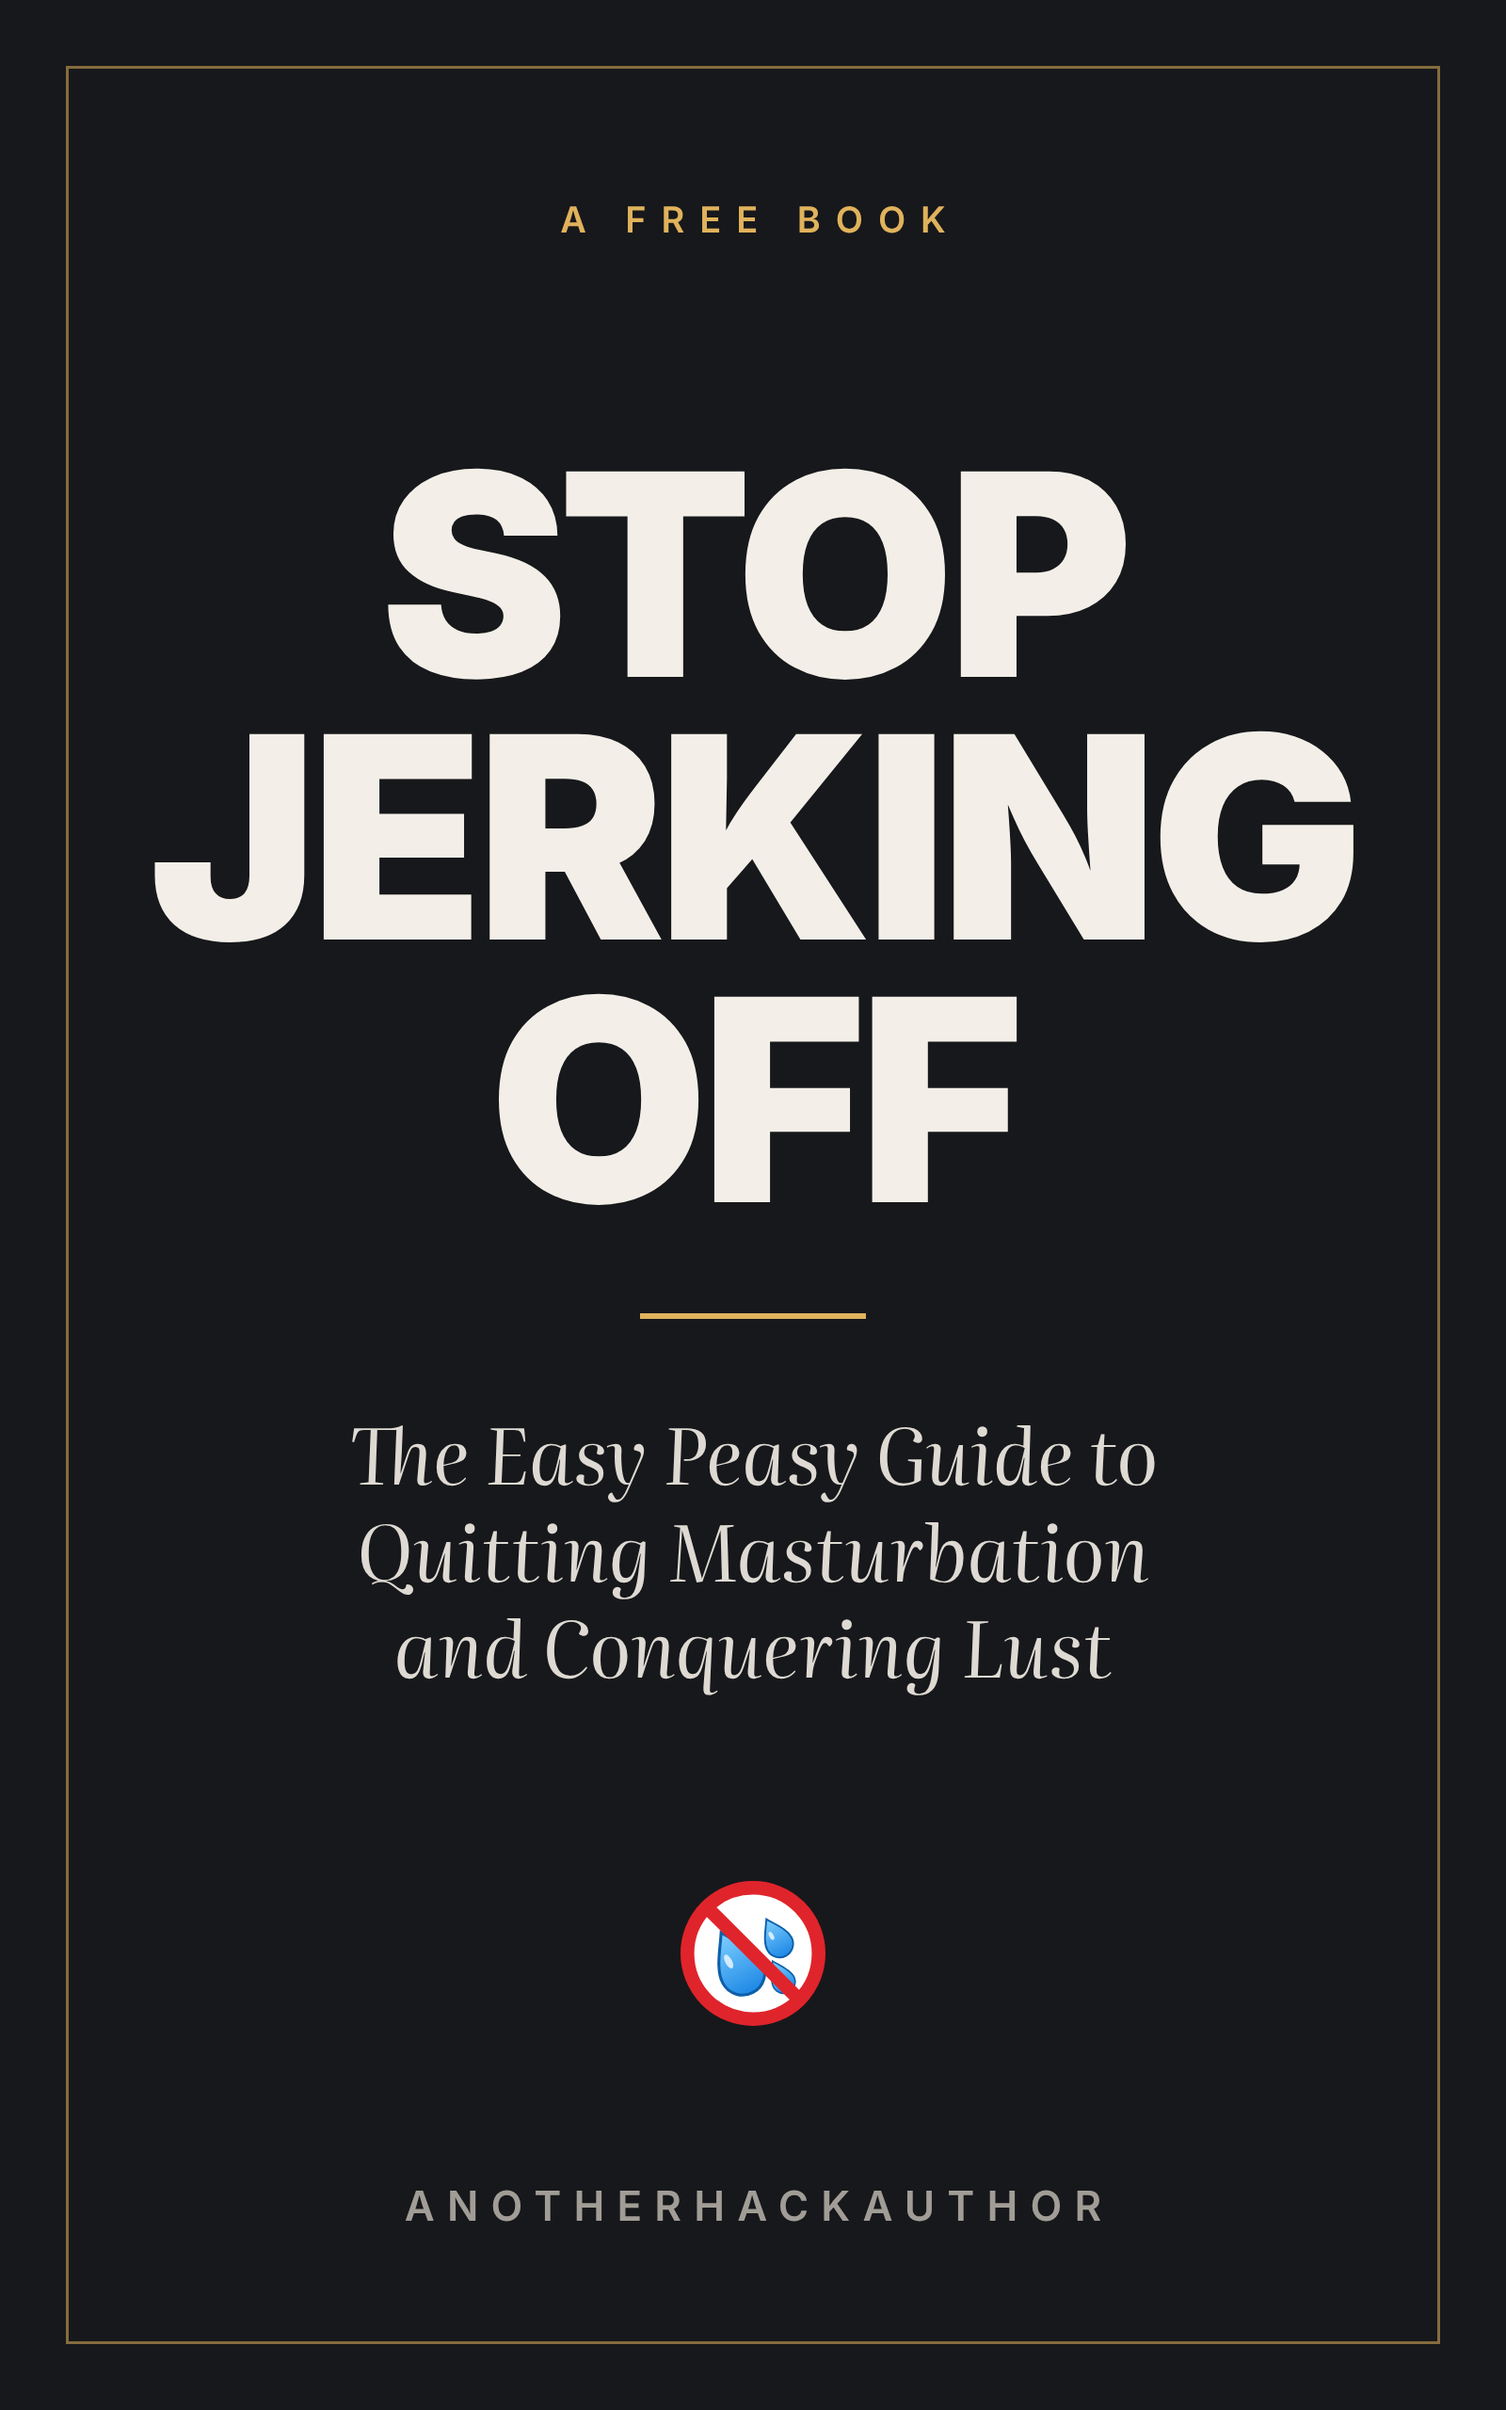
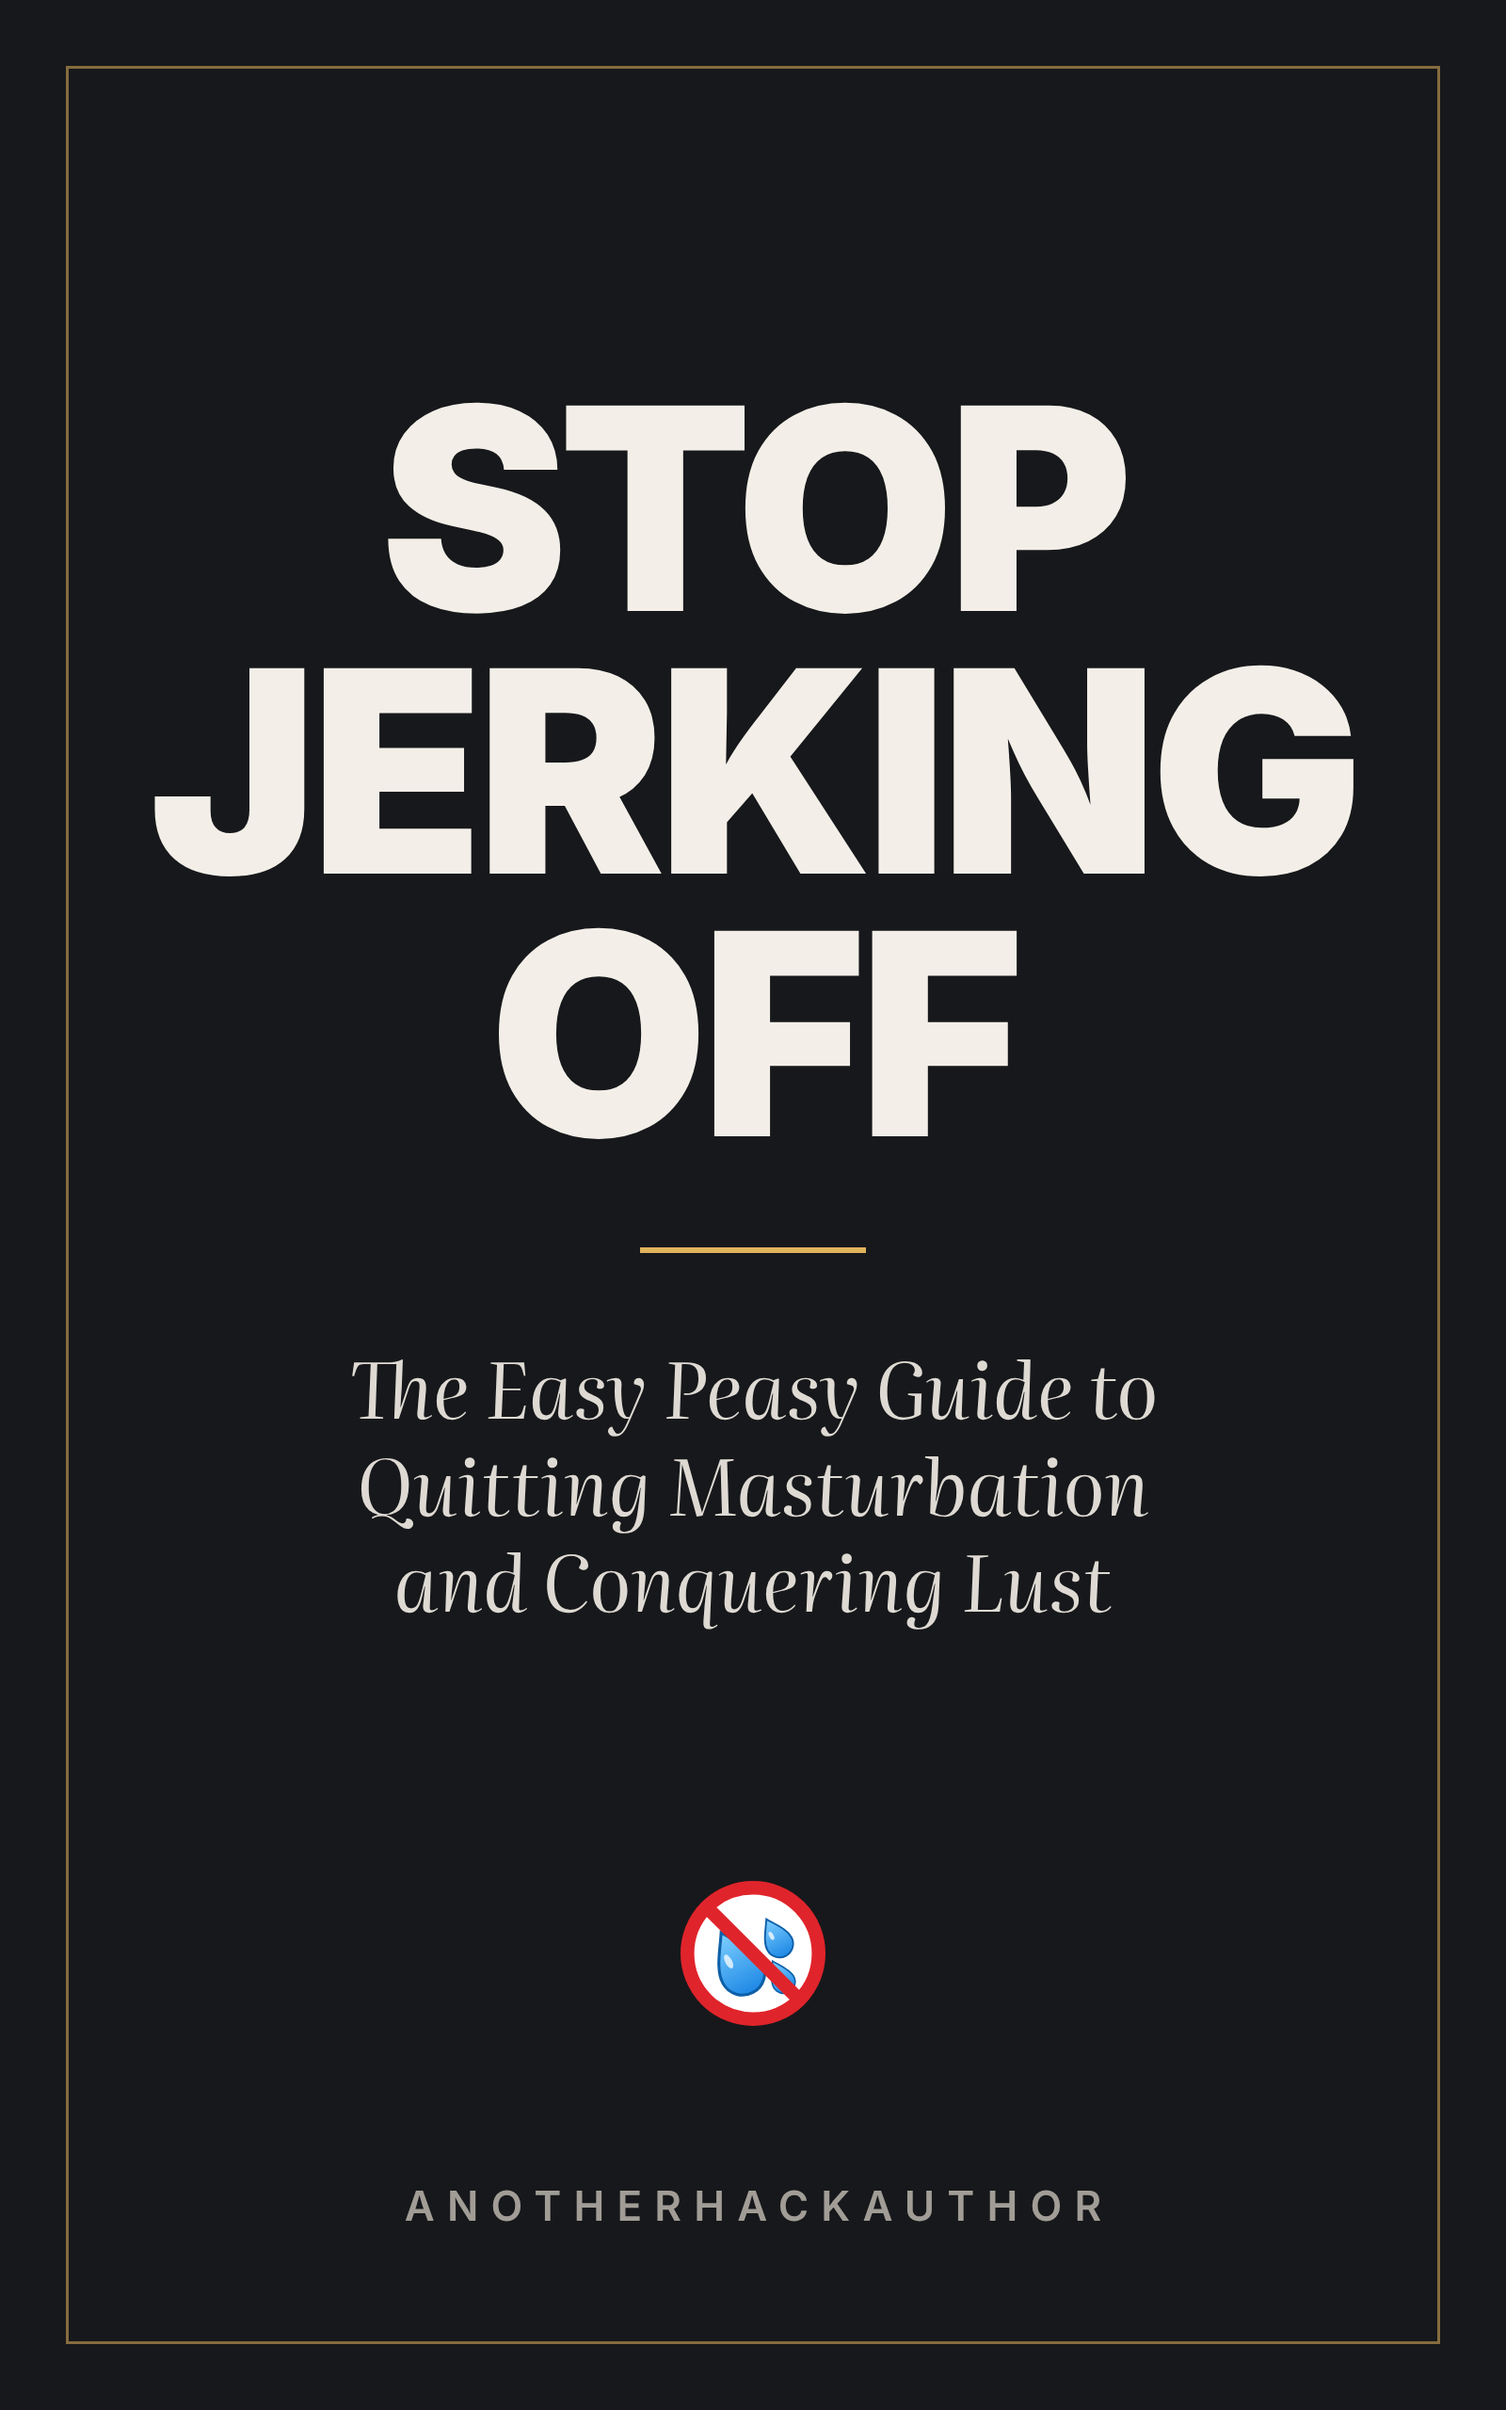
Cover: drop the 'A free book' line
Claude-Session: https://claude.ai/code/session_01PmUGnYjDHtjUciKgiGjbhY

Changed region(s): [[0.0938, 0.1562, 0.9062, 0.5], [0.2188, 0.5625, 0.7812, 0.7188], [0.5312, 0.0625, 0.5625, 0.0938]]

diff --git a/site/cover/cover.html b/site/cover/cover.html
@@ -5,14 +5,13 @@ html,body{margin:0}
 body{width:1600px;height:2560px;background:#17181b;color:#f3efe8;font-family:Inter,sans-serif;position:relative;overflow:hidden}
 .frame{position:absolute;inset:70px;border:3px solid rgba(224,178,92,.55)}
 .top{position:absolute;top:210px;left:0;right:0;text-align:center;font-weight:600;font-size:38px;letter-spacing:.42em;color:#e0b25c;text-transform:uppercase;padding-left:.42em}
-h1{position:absolute;top:470px;left:0;right:0;margin:0;text-align:center;font-weight:900;font-size:300px;line-height:.93;letter-spacing:-.025em;text-transform:uppercase}
-.rule{position:absolute;top:1395px;left:50%;width:240px;height:6px;margin-left:-120px;background:#e0b25c}
-.sub{position:absolute;top:1490px;left:230px;right:230px;text-wrap:balance;text-align:center;font-family:Literata,serif;font-style:italic;font-size:82px;line-height:1.25;color:#dedad3}
+h1{position:absolute;top:400px;left:0;right:0;margin:0;text-align:center;font-weight:900;font-size:300px;line-height:.93;letter-spacing:-.025em;text-transform:uppercase}
+.rule{position:absolute;top:1325px;left:50%;width:240px;height:6px;margin-left:-120px;background:#e0b25c}
+.sub{position:absolute;top:1420px;left:230px;right:230px;text-wrap:balance;text-align:center;font-family:Literata,serif;font-style:italic;font-size:82px;line-height:1.25;color:#dedad3}
 .logo{position:absolute;top:1990px;left:50%;width:170px;height:170px;margin-left:-85px}
 .author{position:absolute;bottom:190px;left:0;right:0;text-align:center;font-weight:600;font-size:44px;letter-spacing:.3em;color:#a19d96;text-transform:uppercase;padding-left:.3em}
 </style></head><body>
 <div class="frame"></div>
-<div class="top">A free book</div>
 <h1>Stop<br>Jerking<br>Off</h1>
 <div class="rule"></div>
 <div class="sub">The Easy Peasy Guide to Quitting Masturbation and Conquering Lust</div>

diff --git a/site/cover/og.html b/site/cover/og.html
@@ -13,7 +13,7 @@ h1{margin:0;font-weight:900;font-size:112px;line-height:.93;letter-spacing:-.025
 .url{position:absolute;right:0;width:470px;bottom:92px;text-align:center;font-weight:600;font-size:20px;letter-spacing:.12em;color:#a19d96}
 </style></head><body>
 <div class="frame"></div>
-<div class="txt"><div class="top">A free book</div><h1>Stop<br>Jerking Off</h1><div class="rule"></div>
+<div class="txt"><h1>Stop<br>Jerking Off</h1><div class="rule"></div>
 <div class="sub">The Easy Peasy Guide to Quitting Masturbation and Conquering Lust</div></div>
 <img class="logo" src="../../images/logo.svg">
 <div class="url">stopjerkingoff.com</div>

diff --git a/tools/seo.py b/tools/seo.py
@@ -15,7 +15,7 @@ TITLE = "Stop Jerking Off"
 FULL_TITLE = "Stop Jerking Off: The Easy Peasy Guide to Quitting Masturbation and Conquering Lust"
 DESCRIPTION = ("Stop masturbating easily and conquer your lust, without willpower or shame. "
                "A free book in the style of EasyPeasy that helps you walk away for good.")
-IMAGE = SITE + "images/og-image.png?v=3"
+IMAGE = SITE + "images/og-image.png?v=4"
 AUTHOR = "AnotherHackAuthor"
 
 book = Path(sys.argv[1] if len(sys.argv) > 1 else "_book")
